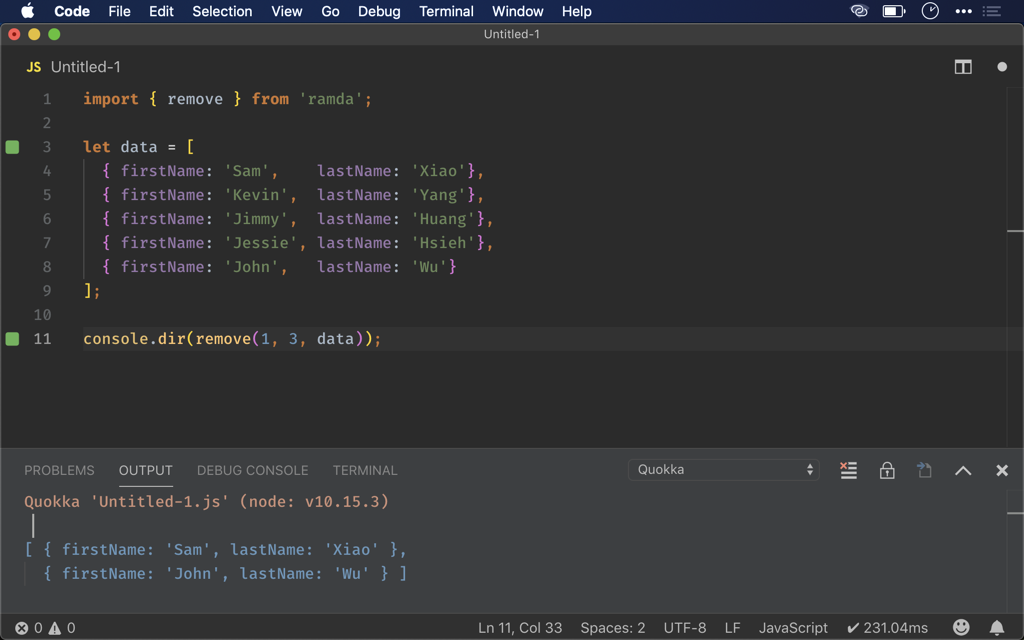
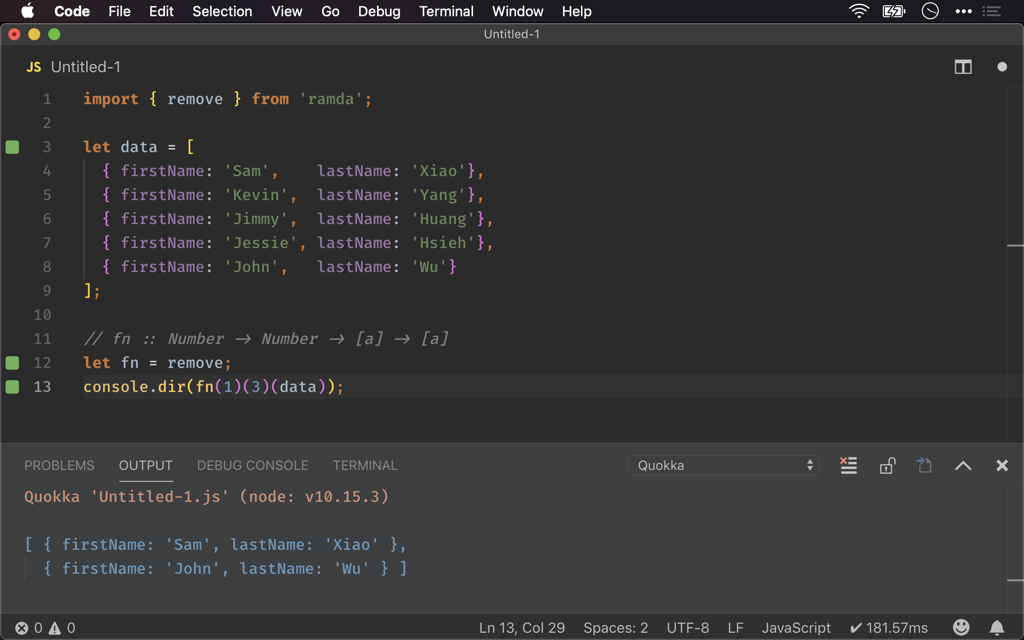
Ramda 之 remove()

diff --git a/source/_posts/ramda/remove.md b/source/_posts/ramda/remove.md
@@ -5,11 +5,17 @@ tags:
   - Ramda/slice
   - Ramda/without
 feature: images/feature/ramda.png
-date: 2019-05-02 11:23:43
+date: 2019-05-15 03:23:43
 ---
 若要從 Array 擷取其中一部分，但我們無法如 `slice()` 指定要的部分，只能指定不要的部分，此時我們可使用 Ramda 的 `remove()`。
 
 <!-- more -->
+
+## Version
+
+VS Code 1.33.1
+Quokka 1.0.210
+Ramda 0.26.1
 
 ## Functional
 
@@ -18,8 +24,12 @@ import { slice, without } from 'ramda';
 
 let data = [1, 2, 3, 4, 5];
 
-let remove = (start, count, arr) => without(slice(start, start + count, arr), arr);
-console.dir(remove(1, 3, data));
+// remove :: Number -> Number -> [a] -> [a]
+let remove = start => count => arr => without(slice(start, start + count, arr), arr);
+
+// fn :: Number -> Number -> [a] -> [a]
+let fn = remove;
+console.log(fn(1)(3)(data));
 ```
 
 假如我們一開始不知道 Ramda 的 `remove()`，也可透過 `slice()` 與 `without()` 組合：
@@ -37,7 +47,10 @@ console.dir(remove(1, 3, data));
 import { remove } from 'ramda';
 
 let data = [1, 2, 3, 4, 5];
-console.dir(remove(1, 3, data));
+
+// fn :: Number -> Number -> [a] -> [a]
+let fn = remove;
+console.log(fn(1)(3)(data));
 ```
 
 事實上 Ramda 已經內建 `remove()`，可直接使用。
@@ -70,7 +83,9 @@ let data = [
   { firstName: 'John',   lastName: 'Wu'}
 ];
 
-console.dir(remove(1, 3, data));
+// fn :: Number -> Number -> [a] -> [a]
+let fn = remove;
+console.dir(fn(1)(3)(data));
 ```
 
 若 element 為 object，`remove()` 依然適用。
